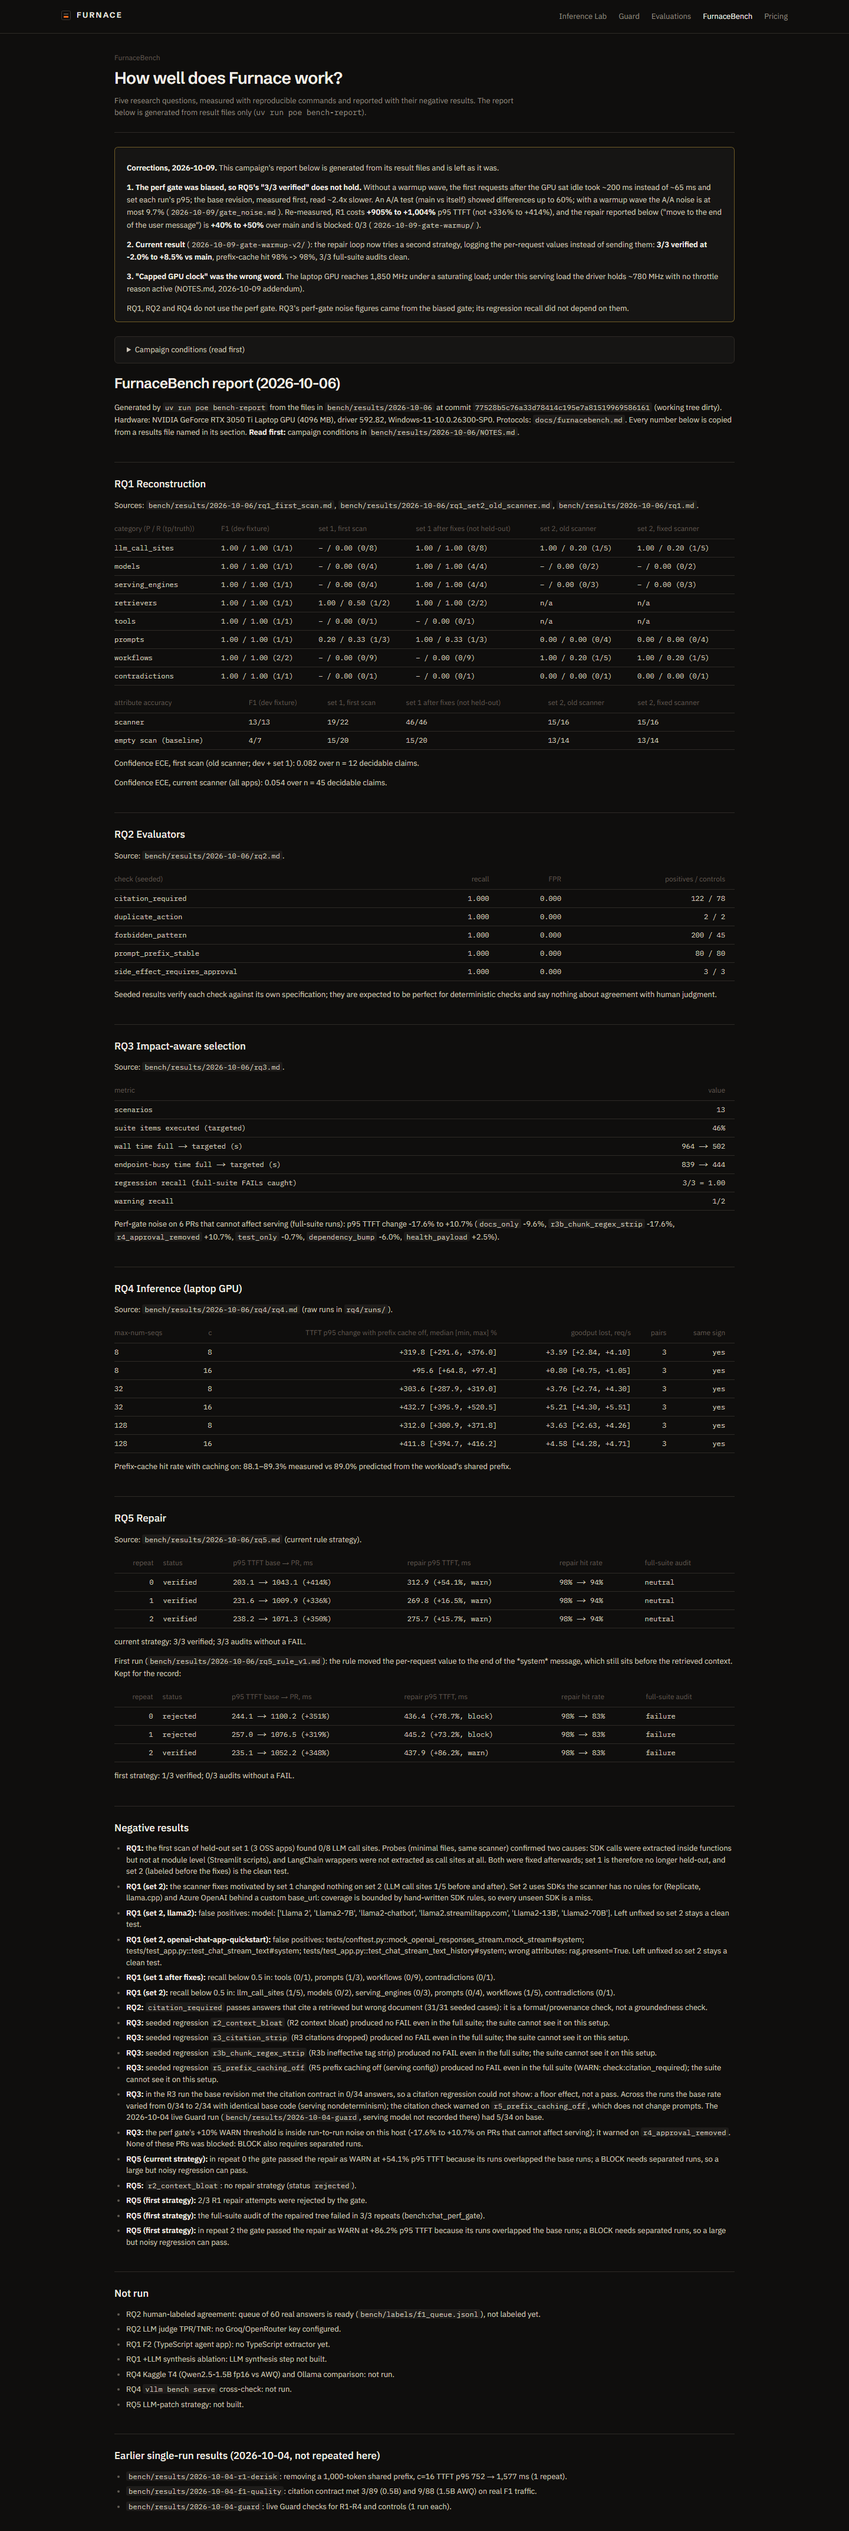
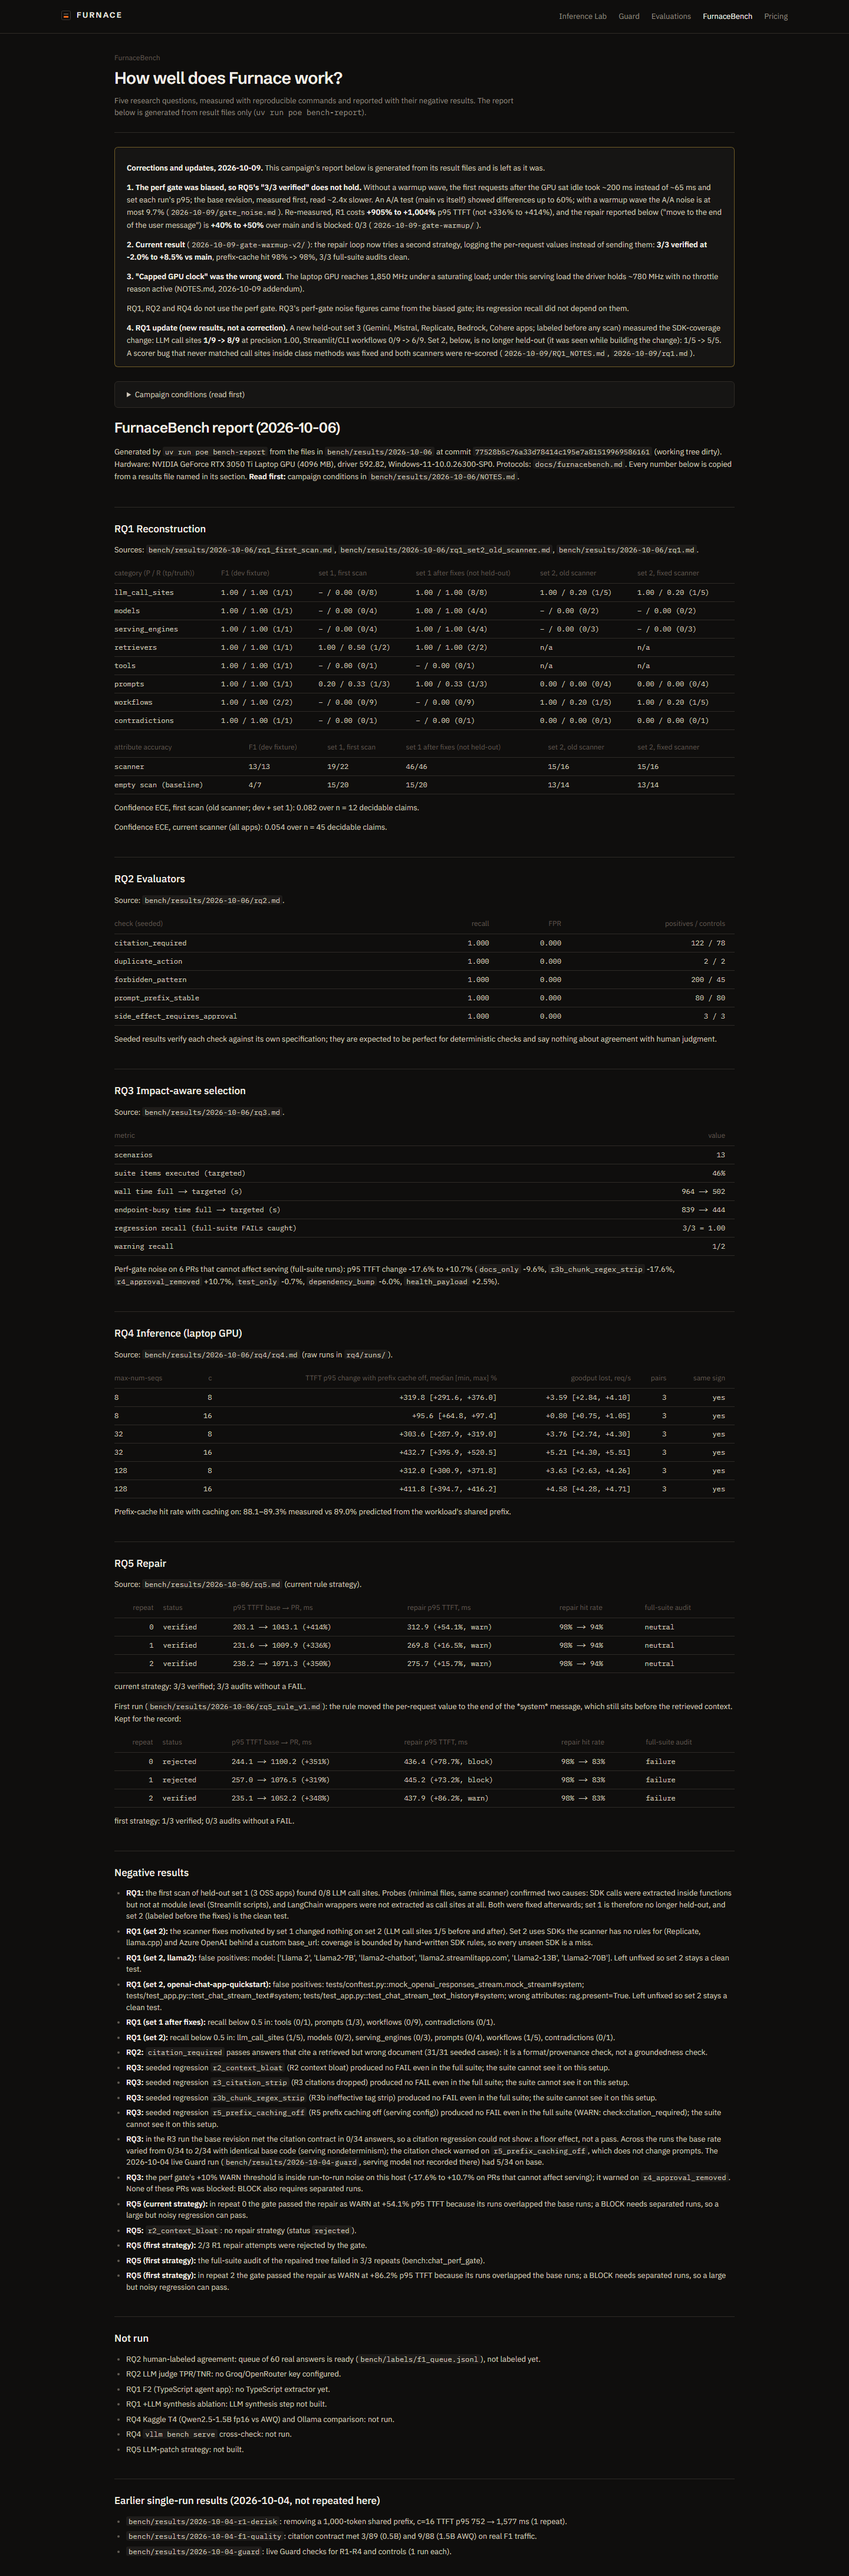
Rehearsal 4 on the latest code (all steps pass, video recorded); demo timings and screenshots refreshed
Guard runs take ~2 min with the fixed gate (warmup wave); the demo script says to start one at
the Lab step. Pre-flight notes cover a runner restart and scanning a visitor's own repo.
CONTINUE.md updated.

diff --git a/docs/demo.md b/docs/demo.md
@@ -6,21 +6,27 @@ RTX 3050 Ti" when showing latency. Under the lab's serving load the driver holds
 2026-10-09 addendum in `bench/results/2026-10-06/NOTES.md`). If asked: "a 0.5B model on a laptop
 GPU, which the driver does not even boost for"; the comparisons share that clock.
 
-Timings below are from two full rehearsals on 2026-10-09 (`scripts/rehearse.py`, results and
-screenshots in `docs/demo-shots/rehearsal-1/` and `rehearsal-2/`): every step passed both times.
+Timings below are from four full rehearsals on 2026-10-09 (`scripts/rehearse.py`, results and
+screenshots in `docs/demo-shots/rehearsal-1/` … `rehearsal-4/`): every step passed in all four.
+Rehearsals 3 and 4 recorded a video (the browser recording adds host load; 4 is the latest code).
 
-| step (rehearsed in a browser) | rehearsal 1 | rehearsal 2 |
-|---|---:|---:|
-| landing loads, live lab panel connects | 1.8 s | 0.4 s |
-| GitHub scan (Azure-Samples/openai-chat-app-quickstart) to Blueprint | 5.8 s | 3.7 s |
-| graph: select the workflow, path trace finishes | 1.8 s | 1.7 s |
-| /lab "Run it now": 80 requests, c = 1, 2, 4, 8 | 27.6 s | 32.5 s |
-| /guard/r1_dynamic_head "Run Guard on this PR" to verdict | 85.5 s | 83.9 s |
-| /bench | 0.4 s | 0.4 s |
+| step (rehearsed in a browser) | 1 | 2 | 3 | 4 |
+|---|---:|---:|---:|---:|
+| landing loads, live lab panel connects | 1.8 s | 0.4 s | 8.9 s* | 8.8 s* |
+| GitHub scan (Azure-Samples/openai-chat-app-quickstart) to Blueprint | 5.8 s | 3.7 s | 4.5 s | 7.2 s |
+| graph: select the workflow, path trace finishes | 1.8 s | 1.7 s | 2.5 s | 1.7 s |
+| /lab "Run it now": 80 requests, c = 1, 2, 4, 8 | 27.6 s | 32.5 s | 31.5 s | 31.3 s |
+| /guard/r1_dynamic_head "Run Guard on this PR" to verdict | 85.5 s | 83.9 s | 92.5 s | 129.2 s† |
+| /bench | 0.4 s | 0.4 s | 0.3 s | 0.2 s |
 
-Both Guard runs ended `FAILURE: 2 regressions found: prompt_prefix_stable, chat_perf_gate`
-(p95 TTFT 205 → 1,030 ms, prefix-cache hit 98% → 0% in rehearsal 1). Not rehearsed yet: the
-GitHub App steps (Forge PR, R1 PR check run, repair PR) — they need the App (docs/github-app.md).
+\* includes the deliberate pauses for the recording (hero replay, live panel).
+† rehearsal 4 runs the fixed perf gate, which adds an unmeasured warmup wave before each measured
+run: plan on **~2 minutes** for a live Guard run, so start it at step 5 and come back at step 7.
+
+Every Guard run ended `FAILURE: 2 regressions found: prompt_prefix_stable, chat_perf_gate`
+(rehearsal 4: p95 TTFT 139.8 → 981.6 ms, +602%, prefix-cache hit 98% → 0%; absolute values move
+with host load, the comparison shares it). Not rehearsed yet: the GitHub App steps (Forge PR, R1
+PR check run, repair PR): they need the App (docs/github-app.md).
 
 ## Pre-flight (30 minutes before)
 
@@ -35,11 +41,10 @@ the pre-flight below. `uv run poe demo-down` stops them. The steps it automates:
 - [ ] Docker Desktop running; `docker compose up -d postgres`; lab vLLM up
       (`HF_HOME_HOST=C:/Users/Dilip/.cache/huggingface docker compose --profile gpu up -d vllm`,
       ready after ~60 s: `curl localhost:8100/v1/models`).
-- [ ] Four processes, each in its own terminal:
-      `uv run poe api` (:8010), `uv run poe worker` (scans), `uv run poe runner` (Guard runs),
-      `cd apps/web && pnpm dev --port 3100`. After editing API code, restart the API by hand:
-      `--reload` waits for open live streams before it restarts.
-- [ ] `uv run python scripts/rehearse.py` passes (about 2.5 minutes; it runs one real benchmark
+- [ ] Four processes (`demo-up` starts them): API (:8010), scan worker, Guard runner, web (:3100).
+      Restarting the runner mid-run is safe now: on start it fails the job it was running, with
+      that reason, instead of leaving it "running".
+- [ ] `uv run python scripts/rehearse.py` passes (about 3.5 minutes; it runs one real benchmark
       and one real Guard run, so the pages then show fresh results).
 - [ ] `uv run furnace gh-check` prints the App and the `furnace-demo-f1` installation (needs the App).
 - [ ] Demo repo has the R1 PR open and Guard has already run once on it (the local copy is ready at
@@ -49,8 +54,10 @@ the pre-flight below. `uv run poe demo-down` stops them. The steps it automates:
       /bench, the demo repo's PR and the repair draft PR.
 - [ ] Fallback: `docs/demo-shots/` (desktop), `docs/demo-shots/mobile/` (390 px), the rehearsal
       folders, and a screen recording of the whole local path
-      (`uv run python scripts/rehearse.py --video docs/demo-video`, about 2:40, saved as .webm;
+      (`uv run python scripts/rehearse.py --video docs/demo-video`, about 3:30, saved as .webm;
       not committed). Copy the video to a USB stick as well.
+- [ ] If someone hands you their own repo: renamed repos now resolve; a TypeScript-only repo gets
+      a "what this scan could read" notice (Furnace analyzes Python today), not an empty page.
 
 ## Script
 

diff --git a/CONTINUE.md b/CONTINUE.md
@@ -6,6 +6,15 @@ Paste this file's path into a new Claude Code session ("read CONTINUE.md and con
 Deadlines: feature freeze **Oct 15**, pitch **Oct 17**. No fabricated numbers; negative results are reported.
 
 ## Oct 8-9 session (live demo work), newest first
+- **Oct 9 (evening): scanner coverage, robustness.** Held-out set 3 (Gemini, Mistral, Replicate,
+  Bedrock, Cohere apps) labeled and committed before any scan; SDK coverage (typed clients, injected
+  `self.x` clients, replicate.run, LangChain wrappers, new ServingEngine values) + Streamlit/CLI script
+  workflows. RQ1 set 3 LLM call sites 1/9 -> 8/9 (P 1.00), workflows 0/9 -> 6/9; scorer bug (class
+  methods never matched) fixed, both scanners re-scored (`bench/results/2026-10-09/RQ1_NOTES.md`).
+  Fixed: renamed GitHub repos (301) crashed scans; TS-only repos showed an empty Blueprint (now a
+  coverage notice); retries claimed from transitive pins; a worker restarted mid-job left the job
+  'running' forever (now failed on restart / reaped). Rehearsal 4 (latest code, video) passed;
+  a live Guard run now takes ~2 min (gate warmup).
 - **Oct 9 (late): perf gate fixed, RQ5 re-measured.** A/A calibration (`bench/gate_noise.py`) found the
   gate biased (identical revisions up to 60% apart; cold first wave after idle set the p95, base
   measured first). Fix: one unmeasured warmup wave per run -> A/A within 9.7%. Re-measured RQ5:
